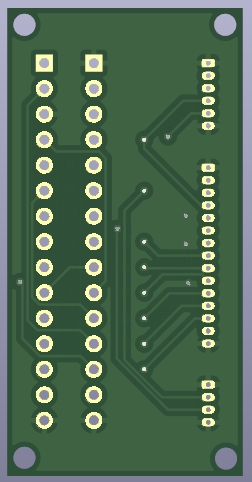
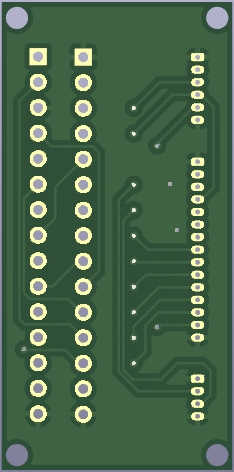
스크린샷 변경 및 점퍼 세팅 항목 추가

diff --git a/rasp_gpio_input/README.md b/rasp_gpio_input/README.md
@@ -16,7 +16,7 @@ GPIO 보호 기능을 갖는 입력 모듈
 
 | Designator | Package | Quantity | Designation |
 |------------|---------|----------|-------------|
-| R1~R13 | R_0805_2012Metric | 1 | 6.8K
+| R1~R13 | R_0805_2012Metric | 13 | 6.8K
 
 
 ## PCB 이미지
@@ -33,3 +33,13 @@ GPIO 보호 기능을 갖는 입력 모듈
 ## 샘플 이미지
 
 ![샘플](images/rasp_gpio_input.jpg)
+
+
+## 점퍼 세팅
+
+커넥터 중 J3는 일부 핀을 점퍼 세팅으로 변경이 가능하다.
+
+* R* - 1-2 끊고 2-3 쇼트시, J3의 Right 핀이 GND로 쇼트
+* ST* - 1-2 끊고 2-3 쇼트시, J3의 Start 핀이 GND로 쇼트
+* SL* - 1-2 끊고 2-3 쇼트시, J3의 Select 핀이 GND로 쇼트
+* HK* - 1-2 끊고 2-3 쇼트시, J3의 HotKey 핀이 GND로 쇼트
